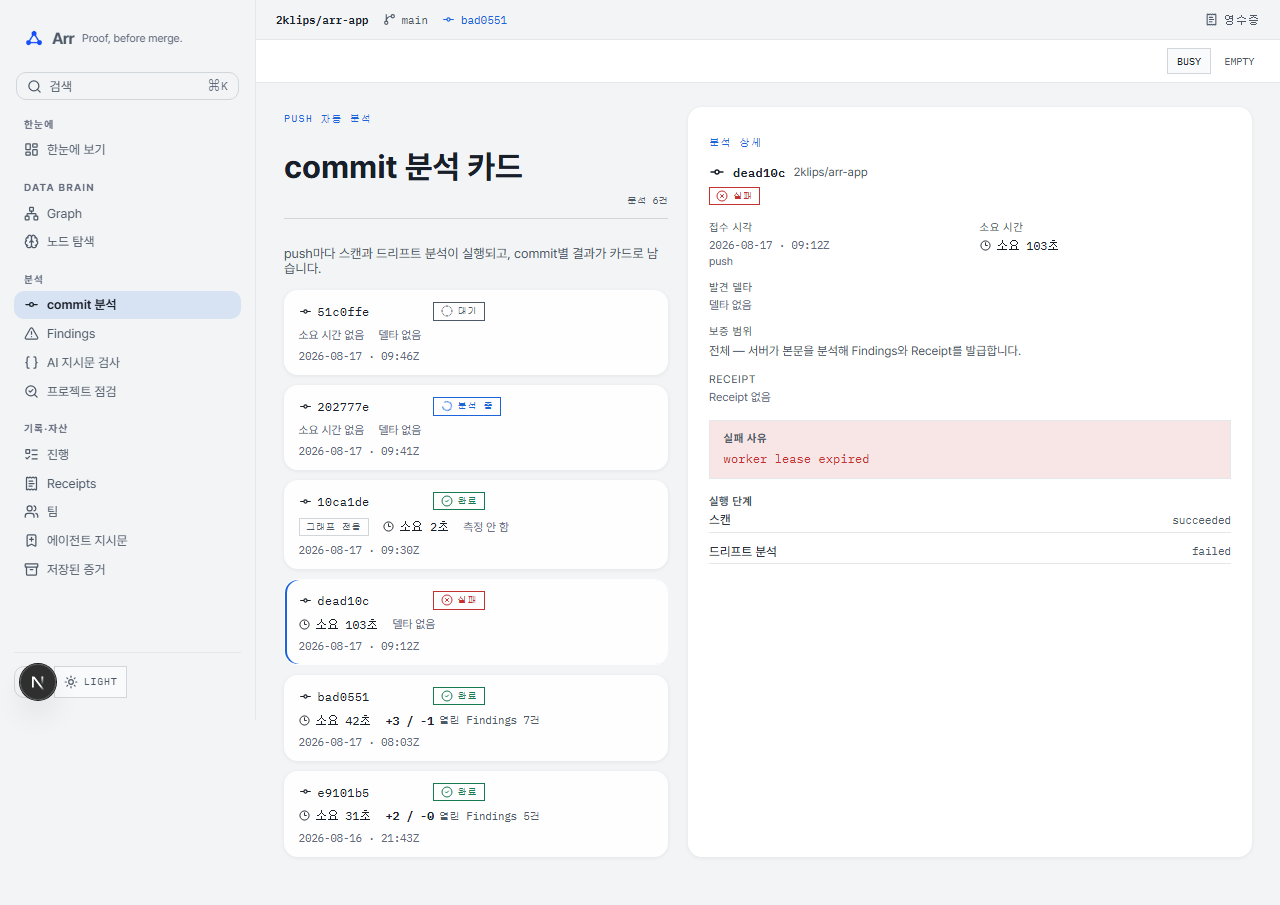
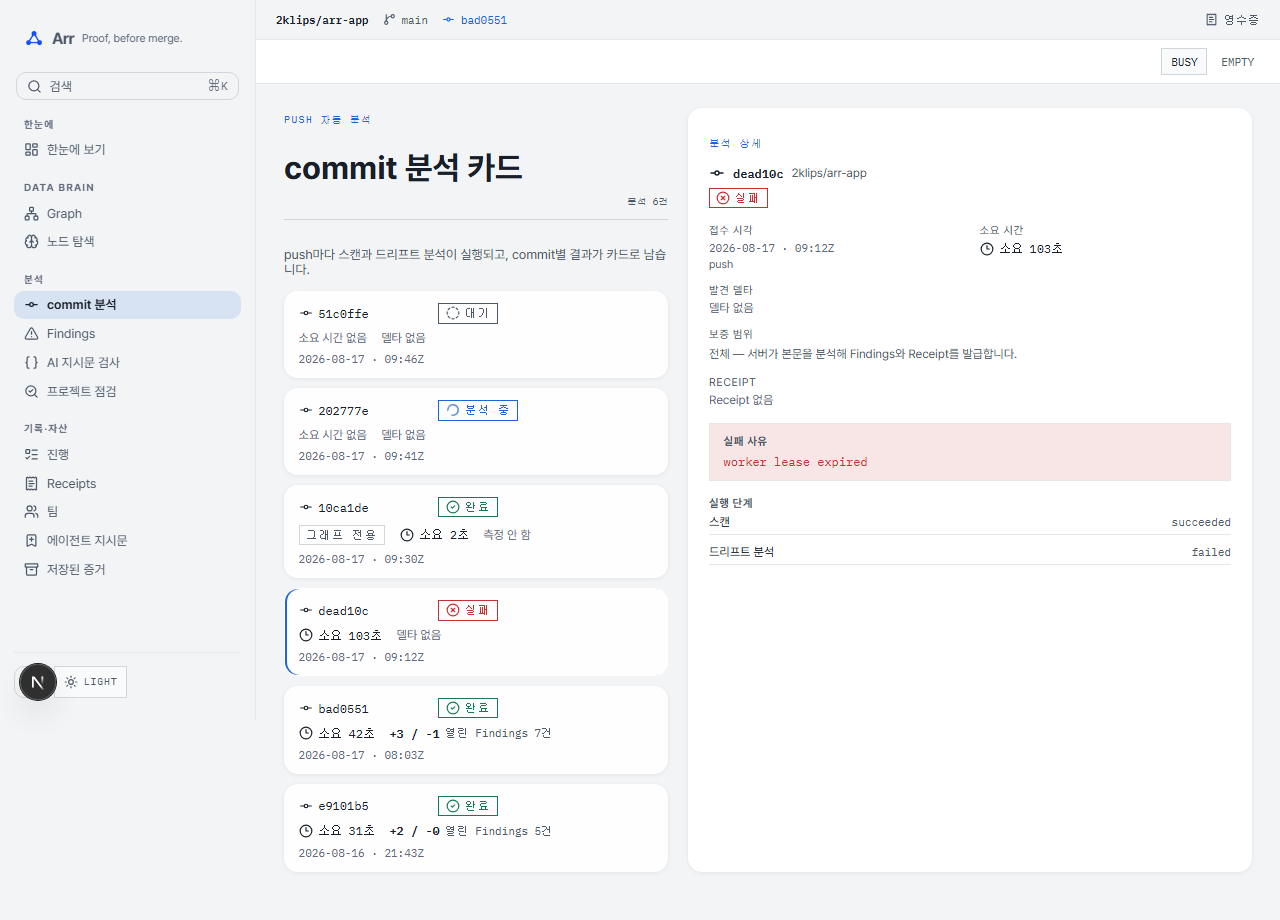
feat(design): migrate commits screen to the scale (roadmap step 4, wave 2)
/commits + /app/commits (shared commit-cards): 19 ad-hoc font-size
declarations map to the type scale (9.12px run-status and assurance
badges rise to the 11px floor), the .commit-chip and
.progress-state-switcher shorthands adopt --text-2xs, and the SHA /
timestamp / duration surfaces gain tabular-nums (already mono). Ratchet
ceiling 191 -> 172.

All six raw lucide sizes swap to <Icon> (11-13px -> xs, 16 -> sm),
including the run-status spinner via the className passthrough (whose
prop now admits an explicit undefined for exactOptionalPropertyTypes).
Drive-by: the local StatusBadge function renames to RunStatusBadge —
it is a run-lifecycle state, not a verification grade, and the old name
collided with the shared primitive.

Deferred per plan: card-rail -> table conversion (structural),
.commit-status.failed alias-hop cleanup.

vitest 889 passed; commit-cards e2e 4 passed.

diff --git a/apps/web/app/globals.css b/apps/web/app/globals.css
@@ -1170,7 +1170,7 @@ a {
   align-items: center;
   color: var(--ok-text);
   display: flex;
-  font: 0.63rem var(--font-mono);
+  font: var(--text-2xs) var(--font-mono);
   gap: 0.35rem;
   justify-self: end;
 }
@@ -2965,7 +2965,7 @@ a {
 .progress-state-switcher a {
   border: 1px solid transparent;
   color: var(--muted);
-  font: 0.62rem var(--font-mono);
+  font: var(--text-2xs) var(--font-mono);
   padding: 0.35rem 0.55rem;
   text-decoration: none;
   text-transform: uppercase;
@@ -5081,7 +5081,7 @@ a {
 
 .commit-lead {
   color: var(--muted);
-  font-size: 0.82rem;
+  font-size: var(--text-sm);
   margin: 0;
 }
 
@@ -5122,8 +5122,9 @@ a {
 
 .commit-card-sha code,
 .commit-detail h2 code {
+  font-variant-numeric: tabular-nums;
   font-family: var(--font-mono);
-  font-size: 0.78rem;
+  font-size: var(--text-xs);
 }
 
 .commit-card-meta {
@@ -5136,9 +5137,10 @@ a {
 
 .commit-card > time,
 .commit-detail time {
+  font-variant-numeric: tabular-nums;
   color: var(--faint);
   font-family: var(--font-mono);
-  font-size: 0.66rem;
+  font-size: var(--text-2xs);
 }
 
 .commit-status {
@@ -5146,7 +5148,7 @@ a {
   border: 1px solid currentColor;
   display: inline-flex;
   font-family: var(--font-mono);
-  font-size: 0.57rem;
+  font-size: var(--text-2xs);
   gap: 0.3rem;
   letter-spacing: 0.08em;
   padding: 0.14rem 0.4rem;
@@ -5172,21 +5174,22 @@ a {
 
 .commit-duration,
 .commit-delta {
+  font-variant-numeric: tabular-nums;
   align-items: center;
   display: inline-flex;
   font-family: var(--font-mono);
-  font-size: 0.72rem;
+  font-size: var(--text-xs);
   gap: 0.3rem;
 }
 
 .commit-delta small {
   color: var(--muted);
-  font-size: 0.66rem;
+  font-size: var(--text-2xs);
 }
 
 .commit-not-measured {
   color: var(--faint);
-  font-size: 0.72rem;
+  font-size: var(--text-xs);
 }
 
 .commit-detail {
@@ -5214,14 +5217,14 @@ a {
 .commit-detail h2 {
   align-items: center;
   display: flex;
-  font-size: 0.95rem;
+  font-size: var(--text-lg);
   gap: 0.5rem;
   margin: 0;
 }
 
 .commit-detail h2 span {
   color: var(--muted);
-  font-size: 0.74rem;
+  font-size: var(--text-xs);
   font-weight: 400;
 }
 
@@ -5234,7 +5237,7 @@ a {
 
 .commit-detail-grid dt {
   color: var(--muted);
-  font-size: 0.68rem;
+  font-size: var(--text-2xs);
   letter-spacing: 0.06em;
   text-transform: uppercase;
 }
@@ -5248,14 +5251,14 @@ a {
 
 .commit-detail-grid dd small {
   color: var(--faint);
-  font-size: 0.68rem;
+  font-size: var(--text-2xs);
 }
 
 .commit-receipt-link {
   align-items: center;
   color: var(--accent-text);
   display: inline-flex;
-  font-size: 0.76rem;
+  font-size: var(--text-xs);
   gap: 0.3rem;
   text-decoration: none;
 }
@@ -5269,7 +5272,7 @@ a {
   border: 1px solid var(--line-strong);
   color: var(--muted);
   font-family: var(--font-mono);
-  font-size: 0.57rem;
+  font-size: var(--text-2xs);
   letter-spacing: 0.08em;
   padding: 0.14rem 0.4rem;
   text-transform: uppercase;
@@ -5285,7 +5288,7 @@ a {
 
 .commit-assurance-scope {
   color: var(--muted);
-  font-size: 0.76rem;
+  font-size: var(--text-xs);
   line-height: 1.5;
 }
 
@@ -5293,7 +5296,7 @@ a {
   align-items: center;
   color: var(--accent-text);
   display: inline-flex;
-  font-size: 0.76rem;
+  font-size: var(--text-xs);
   gap: 0.3rem;
   text-decoration: none;
   width: fit-content;
@@ -5315,7 +5318,7 @@ a {
 .commit-failure h3,
 .commit-jobs h3 {
   color: var(--muted);
-  font-size: 0.68rem;
+  font-size: var(--text-2xs);
   letter-spacing: 0.06em;
   margin: 0;
   text-transform: uppercase;
@@ -5324,7 +5327,7 @@ a {
 .commit-failure code {
   color: var(--broken-text);
   font-family: var(--font-mono);
-  font-size: 0.76rem;
+  font-size: var(--text-xs);
   overflow-wrap: anywhere;
 }
 
@@ -5341,7 +5344,7 @@ a {
   align-items: center;
   border-bottom: 1px solid var(--line);
   display: flex;
-  font-size: 0.78rem;
+  font-size: var(--text-xs);
   justify-content: space-between;
   padding: 0.3rem 0;
 }
@@ -5349,7 +5352,7 @@ a {
 .commit-jobs li code {
   color: var(--muted);
   font-family: var(--font-mono);
-  font-size: 0.68rem;
+  font-size: var(--text-2xs);
 }
 
 @media (max-width: 60rem) {

diff --git a/apps/web/app/ui/commit-cards.tsx b/apps/web/app/ui/commit-cards.tsx
@@ -11,6 +11,7 @@ import {
 } from "lucide-react";
 import Link from "next/link";
 
+import { Icon } from "./icon";
 import { COMMITS } from "../../lib/strings";
 
 interface CommitAnalysisBoardProps {
@@ -41,12 +42,15 @@ const STATUS_COPY = {
   },
 } as const satisfies Record<CommitAnalysisStatus, unknown>;
 
-function StatusBadge({ status }: { status: CommitAnalysisStatus }) {
+function RunStatusBadge({ status }: { status: CommitAnalysisStatus }) {
   const copy = STATUS_COPY[status];
-  const Icon = copy.icon;
   return (
     <span className={`commit-status ${status}`} data-status={status}>
-      <Icon className={copy.spin ? "spin" : undefined} size={12} />
+      <Icon
+        className={copy.spin ? "spin" : undefined}
+        icon={copy.icon}
+        size="xs"
+      />
       {copy.label}
     </span>
   );
@@ -76,7 +80,7 @@ function DurationValue({ card }: { card: CommitAnalysisCard }) {
     </span>
   ) : (
     <span className="commit-duration">
-      <Clock3 size={11} />
+      <Icon icon={Clock3} size="xs" />
       {COMMITS.card.duration(Math.round(card.durationMs / 1000))}
     </span>
   );
@@ -113,11 +117,11 @@ function CommitDetail({ card }: { card: CommitAnalysisCard }) {
       <header>
         <p className="panel-kicker">{COMMITS.detail.kicker}</p>
         <h2>
-          <GitCommitHorizontal size={16} />
+          <Icon icon={GitCommitHorizontal} size="sm" />
           <code>{card.commitSha.slice(0, 7)}</code>
           <span>{card.repository}</span>
         </h2>
-        <StatusBadge status={card.status} />
+        <RunStatusBadge status={card.status} />
       </header>
       <dl className="commit-detail-grid">
         <div>
@@ -150,7 +154,7 @@ function CommitDetail({ card }: { card: CommitAnalysisCard }) {
             {card.assurance === "graph-only" ? (
               <Link className="commit-assurance-upgrade" href="/onboarding">
                 {COMMITS.detail.assuranceUpgradeAction}
-                <ChevronRight size={12} />
+                <Icon icon={ChevronRight} size="xs" />
               </Link>
             ) : null}
           </dd>
@@ -169,9 +173,9 @@ function CommitDetail({ card }: { card: CommitAnalysisCard }) {
                 className="commit-receipt-link"
                 href={`/receipts?receipt=${encodeURIComponent(card.receiptId)}`}
               >
-                <ReceiptText size={12} />
+                <Icon icon={ReceiptText} size="xs" />
                 {COMMITS.detail.receiptAction}
-                <ChevronRight size={12} />
+                <Icon icon={ChevronRight} size="xs" />
               </Link>
             )}
           </dd>
@@ -242,10 +246,10 @@ export function CommitAnalysisBoard({
                   href={cardHref(card, basePath, stateQuery)}
                 >
                   <span className="commit-card-sha">
-                    <GitCommitHorizontal size={13} />
+                    <Icon icon={GitCommitHorizontal} size="xs" />
                     <code>{card.commitSha.slice(0, 7)}</code>
                   </span>
-                  <StatusBadge status={card.status} />
+                  <RunStatusBadge status={card.status} />
                   <span className="commit-card-meta">
                     {card.assurance === "graph-only" ? (
                       <span className="commit-assurance-badge">

diff --git a/tests/design-tokens.test.ts b/tests/design-tokens.test.ts
@@ -370,7 +370,7 @@ describe("scale adoption ratchet (design roadmap step 3)", () => {
   // Existing ad-hoc sizes migrate screen by screen in step 4 — this ratchet
   // only forbids NEW debt. When a migration lands, lower the ceiling to the
   // new count; never raise it.
-  const FONT_SIZE_ADHOC_CEILING = 191;
+  const FONT_SIZE_ADHOC_CEILING = 172;
   const RADIUS_ADHOC_CEILING = 6;
 
   const globalsCss = readFileSync(

diff --git a/apps/web/app/ui/icon.tsx b/apps/web/app/ui/icon.tsx
@@ -19,7 +19,7 @@ export function Icon({
   size = "sm",
 }: {
   /** Extra hook classes (e.g. `spin`, `chain-arrow`) — never for sizing. */
-  readonly className?: string;
+  readonly className?: string | undefined;
   readonly icon: LucideIcon;
   readonly label?: string;
   readonly size?: IconSize;
